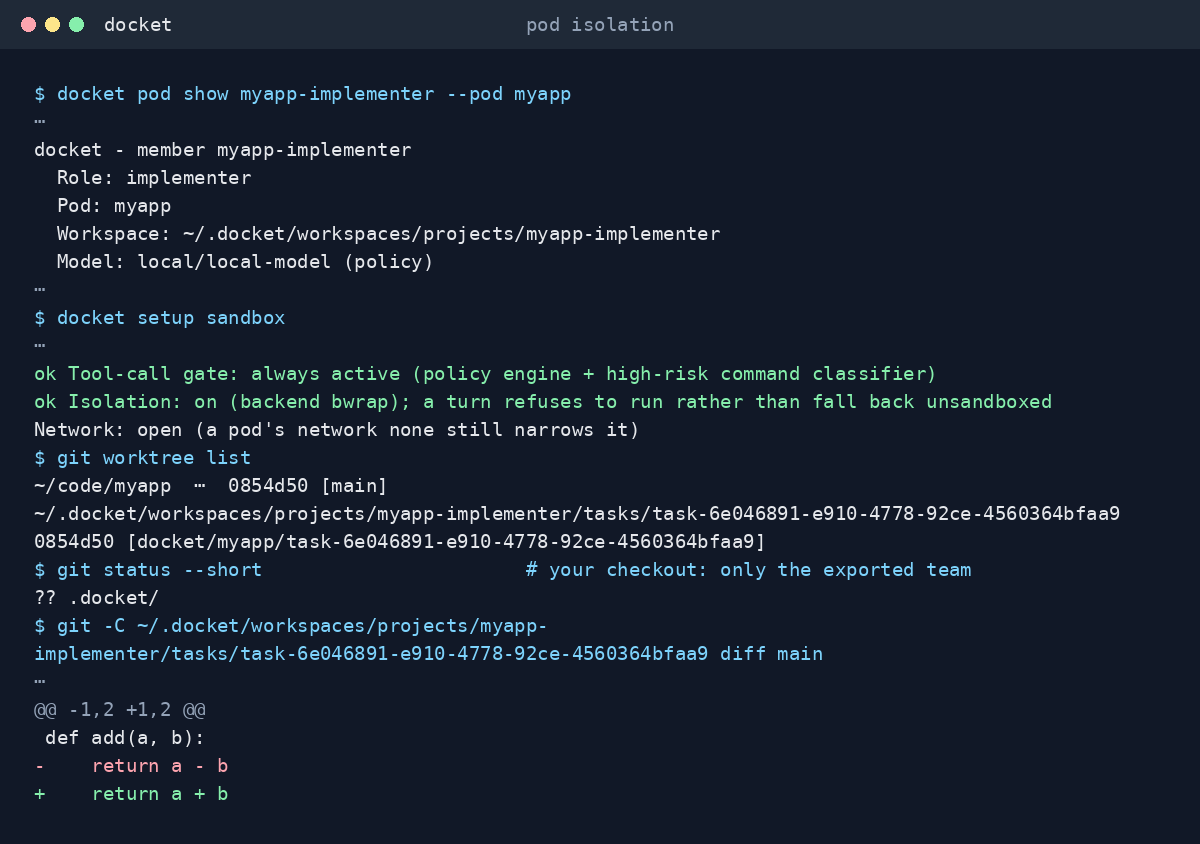
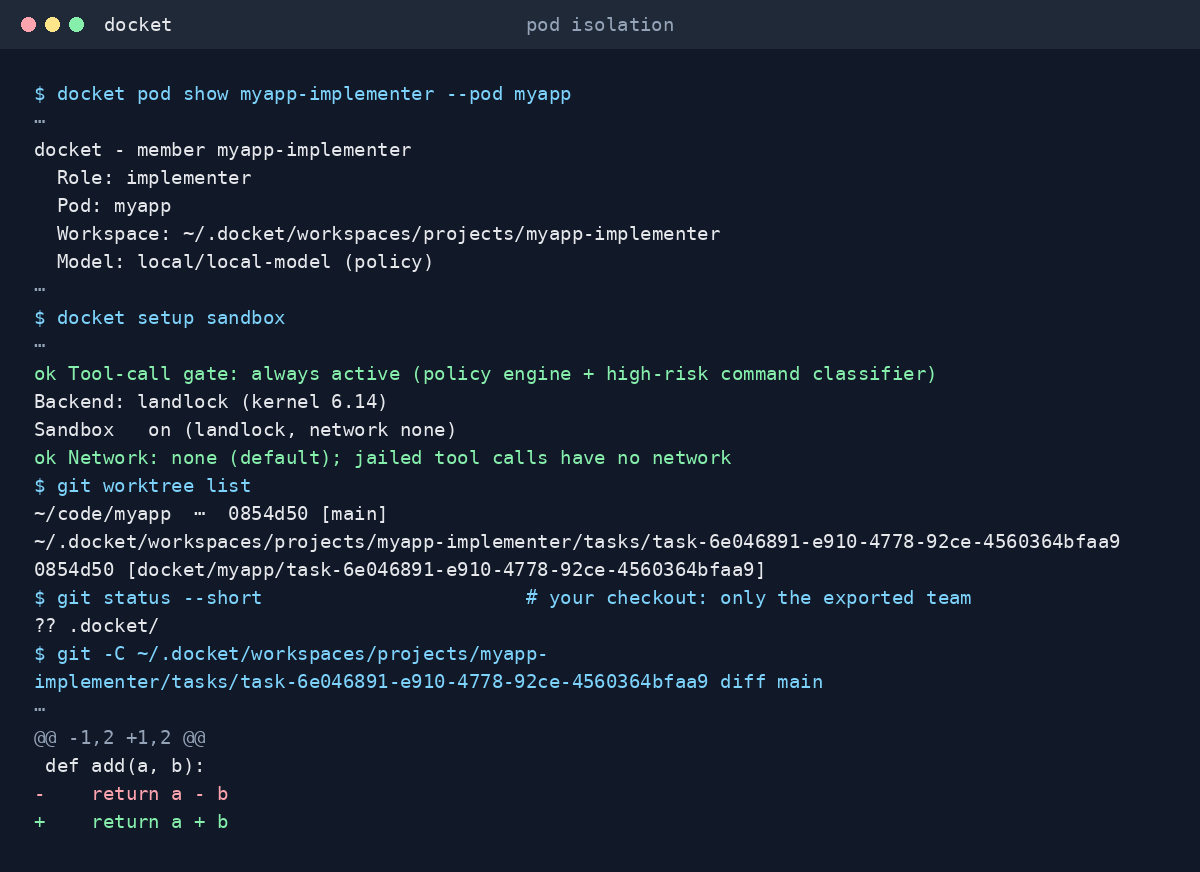
Docs: re-render isolation.png with the Landlock sandbox report
The isolation scene still showed 'backend bwrap', deleted in Phase 41. Its setup sandbox lines are re-transcribed from the real command on a Landlock host (backend landlock, network none) and the three assets re-rendered; render-doc-assets --check passes. The assets README names the command correctly and records the re-transcription.

diff --git a/scripts/render-doc-assets.py b/scripts/render-doc-assets.py
@@ -234,8 +234,9 @@ _ISOLATION = [
     "$ docket setup sandbox",
     "⋯",
     "ok Tool-call gate: always active (policy engine + high-risk command classifier)",
-    "ok Isolation: on (backend bwrap); a turn refuses to run rather than fall back unsandboxed",
-    "Network: open (a pod's network none still narrows it)",
+    "Backend: landlock (kernel 6.14)",
+    "Sandbox   on (landlock, network none)",
+    "ok Network: none (default); jailed tool calls have no network",
     "$ git worktree list",
     "~/code/myapp  ⋯  0854d50 [main]",
     "~/.docket/workspaces/projects/myapp-implementer/tasks/task-6e046891-e910-4778-92ce-4560364bfaa9  "

diff --git a/docs/assets/README.md b/docs/assets/README.md
@@ -7,7 +7,7 @@ real run; there are no terminal screenshots and no invented output.
 | File | Purpose | Captured scene | Used in |
 | --- | --- | --- | --- |
 | `hero.gif` | Four frames: provision the team from a shipped recipe and write it back to `.docket/`; validate, plan and queue; dispatch to `done` through Lead, Implementer and the read-only vetter's `APPROVE`; the record (`pod show` with the team's source and digest, and `log verify`) | `1-team`, `2-dispatch`, `5-record` | Root README and docs index |
-| `isolation.png` | The Implementer's own workspace and git worktree, with `docket setup sandbox status` showing workspace isolation on (the capture runs `docket setup sandbox on`); the operator's checkout holds only the exported team | `3-isolation` | Agent teams guide |
+| `isolation.png` | The Implementer's own workspace and git worktree, with `docket setup sandbox` showing isolation on (Landlock, network `none`) (the capture runs `docket setup sandbox on`); the operator's checkout holds only the exported team | `3-isolation` | Agent teams guide |
 | `governance.png` | The policy dry-run asks for a high-risk push; the Lead parks a consultation first and the operator answers it with `task answer`; then the Implementer's `bash` call parks the task as `waiting_approval` under `high-risk-deploy`, the audit logs `tool.ask`, the trace records the denial with `executed: false`, and the audit chain verifies | `4-gate` | Security guide |
 
 The renderer uses the vendored `DejaVuSansMono.ttf` so glyphs and layout do not depend on host font
@@ -22,7 +22,7 @@ real CLI through every scene against a live OpenAI-compatible endpoint (default
 capture root rendered as `~`. It takes about five minutes because the gate scene waits out the
 120-second approval timeout. A local model's output varies run to run, so copy what the new run
 actually printed into the scene lists in the renderer: elide with `⋯`, never reword or invent a
-line. The current scenes were captured on 2026-10-09 against a local 16k-context model (the `6-harness` transcript is captured but not rendered). The CLI prints its plain voice (`ok`, `->`, `!`) when piped, which is what a transcript is, so the scenes show those prefixes. The local model may park a consultation before delegating; when it does, the capture is continued by answering it (`docket inbox`, `docket task answer <id> --option <id>`, `docket run`) in the same throwaway home, and the scene shows that round.
+line. The current scenes were captured on 2026-10-09 against a local 16k-context model (the `6-harness` transcript is captured but not rendered). The `setup sandbox` lines of `isolation.png` were re-transcribed on 2026-10-13 from the real command on this host after bwrap was deleted (Landlock, network `none`). The CLI prints its plain voice (`ok`, `->`, `!`) when piped, which is what a transcript is, so the scenes show those prefixes. The local model may park a consultation before delegating; when it does, the capture is continued by answering it (`docket inbox`, `docket task answer <id> --option <id>`, `docket run`) in the same throwaway home, and the scene shows that round.
 
 ## Regenerate and verify
 
